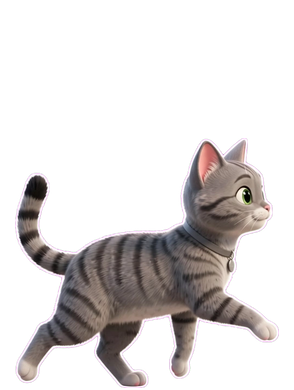
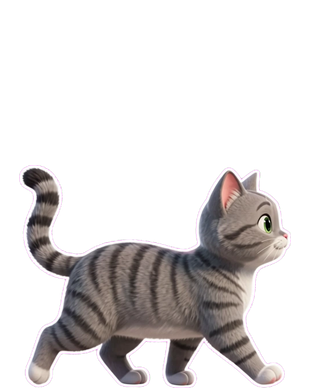
Bundled pets walk on judged 8-frame drawn cycles
Pakkun, Mochi and Kuma get walks drawn by Muse Image (4 sheets each) and
picked by muse-wonder-1.0, replacing the 3/4-view leg rig the maintainer
found unnatural. scripts/walk-sheet.ts (npm run walk-sheet) backfills any
existing pack the same way.

Changed region(s): [[0.0306, 0.3385, 0.949, 1.0]]

diff --git a/scripts/walk-sheet.ts b/scripts/walk-sheet.ts
@@ -1,0 +1,89 @@
+// Give an existing pack the judged walk new packs get: several 8-frame side-view walk sheets (side_0..7) drawn with
+// Muse Image at once, and Meta's judge model picks the most consistent one (src/api/walk-judge.ts).
+//
+//   export MODEL_API_KEY=...            (never put the key in a file)
+//   npm run walk-sheet -- <packDir> [--n 4] [--judge muse-wonder-1.0] [--out <dir>]
+//
+// n Muse Image calls plus one judge call. Writes the frames and the manifest (walk.judge set) to <out> (default
+// out/walk-sheet/<pet>/pack, a copy of the pack, so the pack is untouched until you copy it over), and every sheet
+// plus the judge's scores to out/walk-sheet/<pet>/.
+
+import { cp, mkdir, readFile, writeFile } from 'node:fs/promises';
+import { join } from 'node:path';
+import { parseArgs } from 'node:util';
+import sharp from 'sharp';
+import { clientForScripts } from '../src/api/meta-client.js';
+import { editImage } from '../src/api/muse-image.js';
+import { extractJson, parseResponseText, sparkRequestBody, type SparkResponse } from '../src/api/muse-spark.js';
+import { chromaKey, dataUrl, layoutFrames, MAGENTA, POSES, sheetFrames, SIDE_FRAMES, STYLE, validateManifest } from '../src/api/pose-pipeline.js';
+import { isStaticSheet } from '../src/api/static-sheet.js';
+import { JUDGE_MODEL, WALK_JUDGE, WALK_REVIEW } from '../src/api/walk-judge.js';
+
+const { values, positionals } = parseArgs({ allowPositionals: true, options: { n: { type: 'string', default: '4' }, judge: { type: 'string', default: JUDGE_MODEL }, out: { type: 'string' } } });
+const dir = positionals[0];
+if (!dir) throw new Error('usage: npm run walk-sheet -- <packDir> [--n 4] [--judge <model>] [--out <dir>]');
+
+interface Review { sheets: { index: number; same_pet: number; consistent: number; cycle: number; legs: number; notes: string }[]; best: number; reason: string }
+
+async function main(): Promise<void> {
+  const manifest: unknown = JSON.parse(await readFile(join(dir!, 'sprite-manifest.json'), 'utf8'));
+  validateManifest(manifest);
+  const idleFile = await readFile(join(dir!, 'idle_0.png'));
+  const { height: packH } = await sharp(idleFile).metadata();
+  const idle = await sharp(idleFile).trim({ threshold: 0 }).png().toBuffer();
+  const refs = [dataUrl(await sharp(idle).flatten({ background: MAGENTA }).extend({ top: 40, bottom: 40, left: 80, right: 80, background: MAGENTA }).png().toBuffer())];
+  const prompt = `${STYLE} ${POSES['walk_sheet8']}`;
+  const client = clientForScripts();
+  const log = `out/walk-sheet/${manifest.pet}`;
+  await mkdir(log, { recursive: true });
+
+  const t0 = Date.now();
+  const drawn = await Promise.allSettled(Array.from({ length: Number(values.n) }, async (_, i) => {
+    const [img] = await editImage(client, prompt, refs);
+    const raw = (img as { buffer: Buffer }).buffer;
+    await writeFile(`${log}/sheet-${i}.png`, raw);
+    const keyed = await chromaKey(raw);
+    if (keyed.opaque < 0.02 || keyed.opaque > 0.9 || keyed.edge > 0.01) throw new Error(`sheet ${i}: degenerate`); // as the pipeline
+    const frames = await sheetFrames(keyed, 8, 2);
+    if (await isStaticSheet(frames)) throw new Error(`sheet ${i}: static`);
+    return { i, raw, frames };
+  }));
+  const ok = drawn.flatMap((d) => (d.status === 'fulfilled' ? [d.value] : []));
+  for (const d of drawn) if (d.status === 'rejected') console.log(String((d.reason as Error).message));
+  console.log(`${manifest.pet}: ${ok.length}/${values.n} usable sheets in ${((Date.now() - t0) / 1000).toFixed(1)} s`);
+  if (!ok.length) throw new Error('no usable sheet');
+
+  const onWhite = async (b: Buffer): Promise<string> => dataUrl(await sharp(b).flatten({ background: '#ffffff' }).png().toBuffer());
+  const input = [{ type: 'message', role: 'user', content: [
+    { type: 'input_text', text: `Reference pet: a ${manifest.species ?? 'pet'}. ${ok.length} candidate walk cycles follow.` },
+    { type: 'input_image', image_url: await onWhite(idle) },
+    ...(await Promise.all(ok.map(async (s) => ({ type: 'input_image', image_url: await onWhite(s.raw) })))),
+  ] }];
+  const t1 = Date.now();
+  const res = await client.postJson<SparkResponse>('/responses', { ...sparkRequestBody({ instructions: WALK_JUDGE, input, schema: WALK_REVIEW, name: 'walk_review', effort: 'medium' }), model: values.judge });
+  const review = extractJson(parseResponseText(res)) as Review;
+  const best = Number.isInteger(review.best) && review.best >= 0 && review.best < ok.length ? review.best : 0;
+  await writeFile(`${log}/review.json`, JSON.stringify({ judge: values.judge, sheetFiles: ok.map((s) => `sheet-${s.i}.png`), ...review }, null, 2));
+  console.log(`${values.judge} picked sheet-${ok[best]!.i} in ${((Date.now() - t1) / 1000).toFixed(1)} s: ${review.reason}`);
+
+  const out = values.out ?? `${log}/pack`;
+  await cp(dir!, out, { recursive: true });
+  const keyed = Object.fromEntries([['idle_0', { png: idle }], ...SIDE_FRAMES.map((n, i) => [n, ok[best]!.frames[i]!])]);
+  const laid = (await layoutFrames(keyed, 'idle_0')).frames;
+  for (const n of SIDE_FRAMES) {
+    const f = laid[n]!;
+    const { height } = await sharp(f).metadata();
+    // Same canvas height as the pack, so the foot line (footY) matches every other pose.
+    await writeFile(join(out, `${n}.png`), await sharp(f).extend({ top: Math.max(0, packH! - height!), background: { r: 0, g: 0, b: 0, alpha: 0 } }).png().toBuffer());
+  }
+  const walk = manifest.poses['walk'] ?? { fps: 8, footY: manifest.poses['idle']!.footY };
+  const next = { ...manifest, poses: { ...manifest.poses, walk: { ...walk, frames: SIDE_FRAMES.map((n) => `${n}.png`), judge: values.judge } } };
+  validateManifest(next);
+  await writeFile(join(out, 'sprite-manifest.json'), JSON.stringify(next, null, 2));
+  console.log(`${out}: walk = sheet-${ok[best]!.i}`);
+}
+
+main().catch((err: unknown) => {
+  console.error((err as Error).message);
+  process.exit(1);
+});

diff --git a/src/main/pack.test.ts b/src/main/pack.test.ts
@@ -88,10 +88,11 @@ describe('dropStaticWalk', () => {
     expect(p?.manifest.poses['walk']).toBeUndefined();
     expect(Object.keys(p?.frames ?? {})).toEqual(['idle_0.png']);
   });
-  it('keeps a real four-frame walk (Pakkun)', async () => {
+  it('keeps the real judged eight-frame walk (Pakkun), judge and all', async () => {
     const p = await loadPack(pakkun);
-    expect(p?.manifest.poses['walk']?.frames).toHaveLength(4);
-    expect(p?.frames['side_3.png']).toBeDefined();
+    expect(p?.manifest.poses['walk']?.frames).toHaveLength(8);
+    expect(p?.manifest.poses['walk']?.judge).toBe('muse-wonder-1.0');
+    expect(p?.frames['side_7.png']).toBeDefined();
   });
   it('keeps a [c0, idle, c1, idle] cycle and drops one whose frames all equal idle', () => {
     const pose = { fps: 8, footY: 1 };
